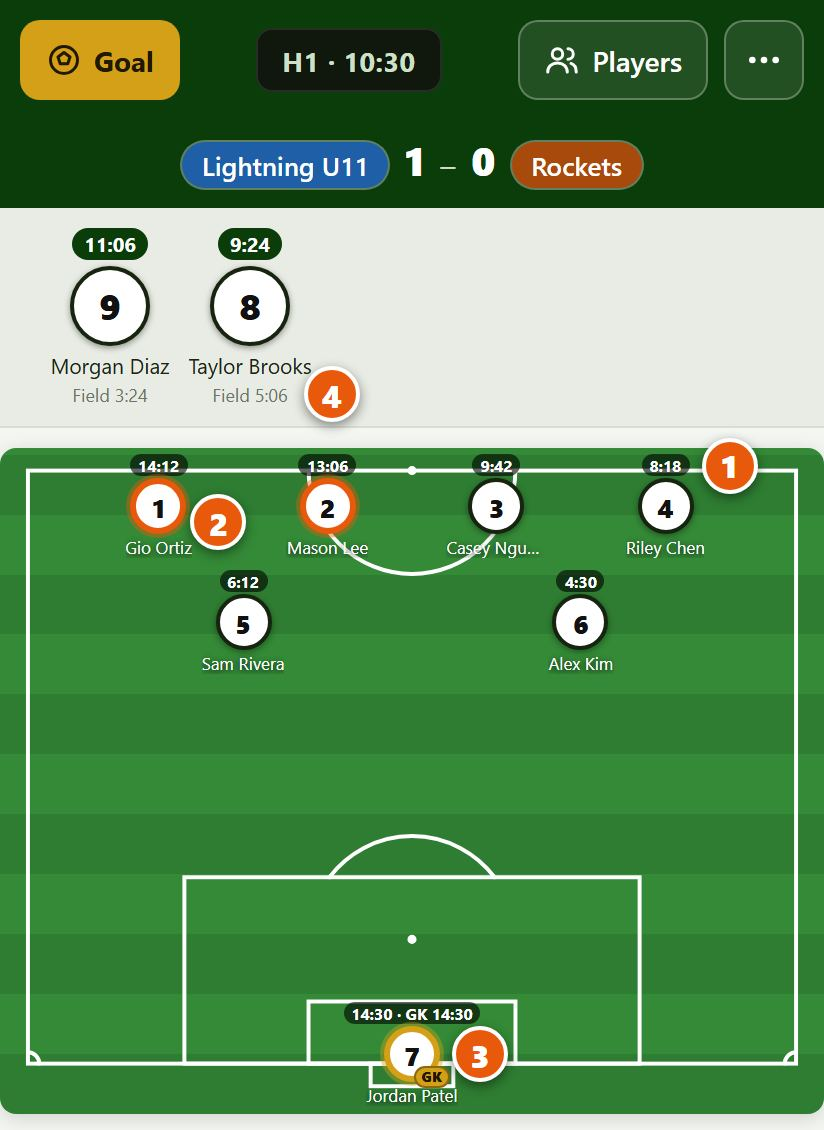
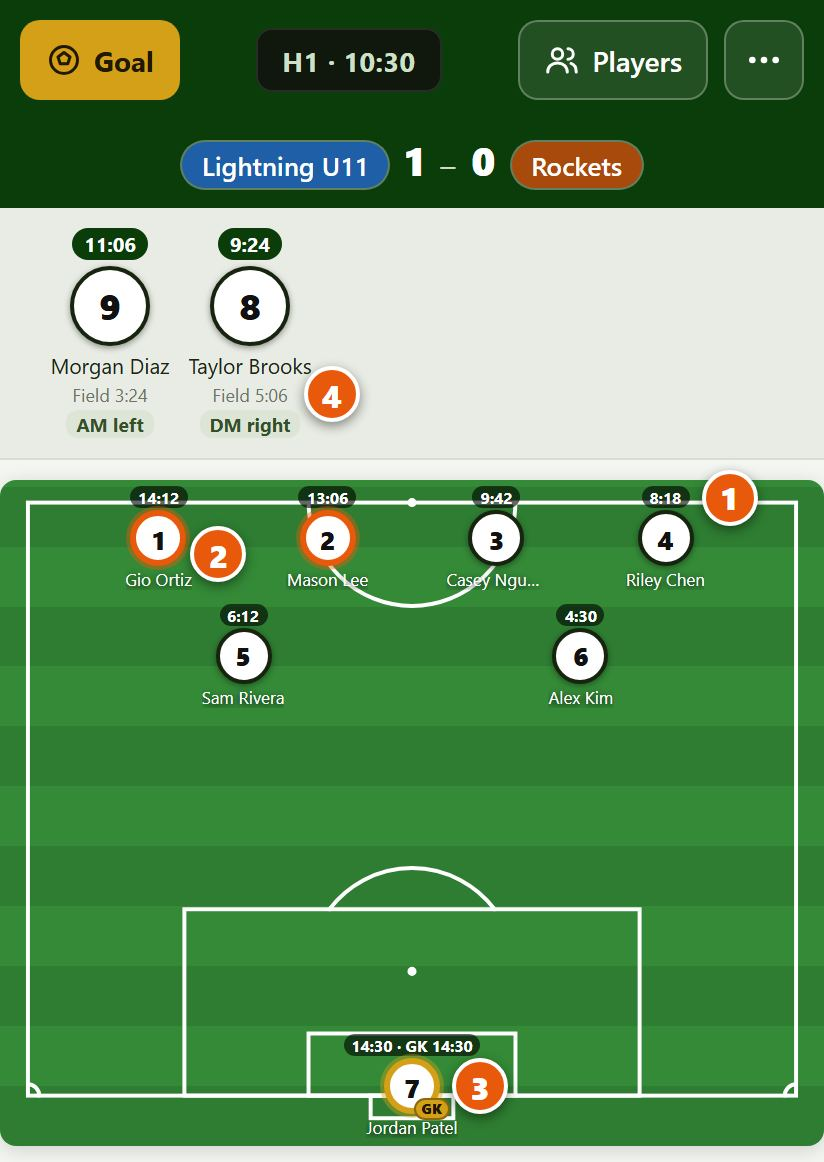
Show where each bench player last played
- Record a player's position (line + side, or GK) when they leave the
  field after kickoff, and show it as a small tag on their bench token
- Move the position helper into session.js so the sub queue and the
  bench share it
- Guide: mention the tag and show it in the field screenshot
- Bump version to v58

diff --git a/js/session.js b/js/session.js
@@ -48,9 +48,31 @@ function setRow(session, playerId, newRowIndex, now) {
   p.lastRowChange = now;
 }
 
+// A field player's spot: the line (ST / AM / DM / DEF) plus the side within it, worked out from
+// their place in the row - one in a row is centre, two are left/right, three add a centre, four
+// split into left, mid-left, mid-right, right. The goalie is just GK. Null if not on the field.
+const ROW_LABELS = ['ST', 'AM', 'DM', 'DEF'];
+const SIDES_BY_COUNT = [[], ['centre'], ['left', 'right'], ['left', 'centre', 'right'], ['left', 'mid-left', 'mid-right', 'right']];
+function fieldPositionOf(session, pid) {
+  const p = session.players[pid];
+  if (!p || p.status !== 'field') return null;
+  if (p.isGoalie) return { line: 'GK', side: '' };
+  const ri = FieldLayout.rowIndexOf(session.rows, pid);
+  if (ri == null) return null;
+  const players = session.rows[ri].players;
+  return { line: ROW_LABELS[ri], side: (SIDES_BY_COUNT[players.length] || [])[players.indexOf(pid)] || '' };
+}
+
 function setStatus(session, playerId, newStatus, now) {
   const p = session.players[playerId];
   if (!p || p.status === newStatus) return;
+  // Leaving the field: remember where they were playing, shown on their bench token so the coach
+  // knows where they last played. Every caller benches a player before taking them out of the
+  // rows, so their spot is still readable here. Not recorded before the first kickoff - shuffling
+  // the starting lineup isn't "playing" a position.
+  if (newStatus === 'bench' && p.status === 'field' && session.kickoffAt) {
+    p.lastPosition = fieldPositionOf(session, playerId);
+  }
   if (session.live) {
     if (p.status === 'field') p.fieldSeconds += (now - p.lastChange) / 1000;
     else p.benchSeconds += (now - p.lastChange) / 1000;

diff --git a/js/app.js b/js/app.js
@@ -1164,21 +1164,8 @@ const Screens = {
       }
     }
 
-    // A field player's spot, for telling a sub where they're going: the line (ST / AM / DM / DEF,
-    // same labels as the Players panel) plus the side within it, worked out from their place in
-    // the row - one in a row is centre, two are left/right, three add a centre, four split into
-    // left, mid-left, mid-right, right. The goalie is just GK.
-    const ROW_LABELS = ['ST', 'AM', 'DM', 'DEF'];
-    const SIDES_BY_COUNT = [[], ['centre'], ['left', 'right'], ['left', 'centre', 'right'], ['left', 'mid-left', 'mid-right', 'right']];
-    function positionOf(pid) {
-      const p = session.players[pid];
-      if (!p || p.status !== 'field') return null;
-      if (p.isGoalie) return { line: 'GK', side: '' };
-      const ri = FieldLayout.rowIndexOf(session.rows, pid);
-      if (ri == null) return null;
-      const players = session.rows[ri].players;
-      return { line: ROW_LABELS[ri], side: (SIDES_BY_COUNT[players.length] || [])[players.indexOf(pid)] || '' };
-    }
+    // A field player's spot, for telling a sub where they're going (see fieldPositionOf).
+    const positionOf = (pid) => fieldPositionOf(session, pid);
 
     // Re-rendered alongside the kickoff bar for the same reason - who's queued (and against
     // whom) can change on every tap, not just full-screen reloads.
@@ -1323,6 +1310,7 @@ const Screens = {
         </div>
         <div class="token-name">${escapeHtml(name)}</div>
         ${isField ? '' : '<div class="token-field-total"></div>'}
+        ${!isField && p.lastPosition ? `<div class="token-last-pos" title="Last played">${p.lastPosition.line}${p.lastPosition.side ? ` ${p.lastPosition.side}` : ''}</div>` : ''}
       `;
       return el;
     }

diff --git a/css/styles.css b/css/styles.css
@@ -863,6 +863,19 @@ button.back-link { background: none; border: none; padding: 0; flex-shrink: 0; }
   white-space: nowrap;
 }
 
+/* Where a bench player last played (line + side), as a small tag under their field total. */
+.token-last-pos {
+  margin-top: 2px;
+  padding: 0 5px;
+  border-radius: 6px;
+  background: #dde6d6;
+  color: #34502a;
+  font-size: 9.5px;
+  font-weight: 700;
+  line-height: 1.5;
+  white-space: nowrap;
+}
+
 /* On-field tokens are smaller than bench ones - up to 4 fixed rows need to fit comfortably
    in the field's vertical space without adjacent rows overlapping. */
 .token-field { width: 50px; }

diff --git a/js/utils.js b/js/utils.js
@@ -242,7 +242,7 @@ const GUIDE_SECTIONS = [
       'Time on the field this game.',
       'Orange ring - most time on, due for a sub. It rings as many players as are free on the bench.',
       'Gold ring and GK - the goalie. Time in goal doesn’t count toward the ring.',
-      'Bench players show their total field time.',
+      'Bench players show their total field time and where they last played.',
     ],
     legend: true,
     note: 'At full time the clock keeps going in orange (<b>+1:23</b>) for extra time. Tap <b>End Half</b> when the ref blows the whistle.',

diff --git a/js/version.js b/js/version.js
@@ -3,4 +3,4 @@
 // Single source of truth for the app's version - bump this on every deploy. Read by both the
 // page (js/version.js) and the service worker (which pulls it in via importScripts) so the
 // cache name and the version shown in Settings can never drift apart from each other.
-const APP_VERSION = 'v57';
+const APP_VERSION = 'v58';
